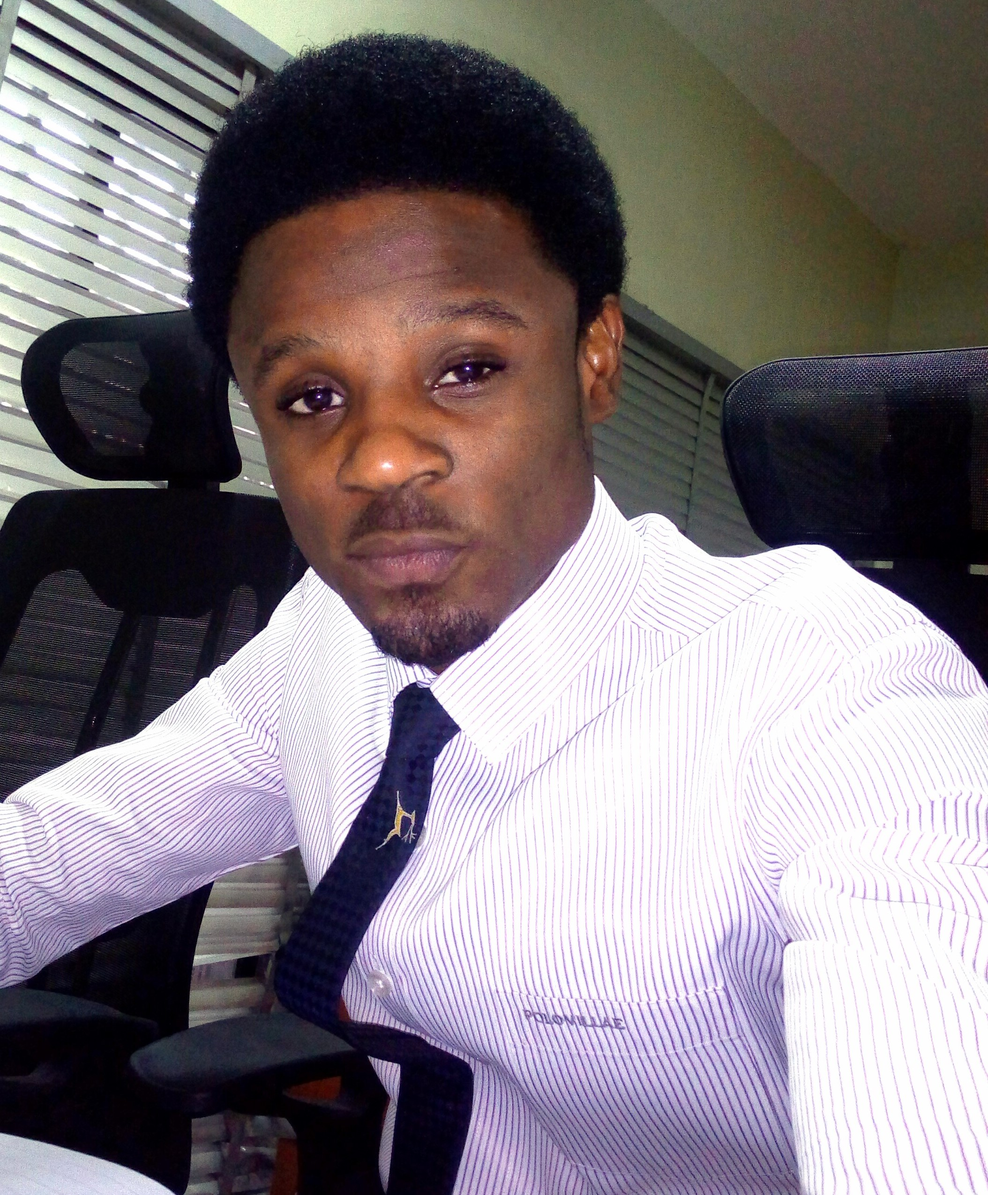
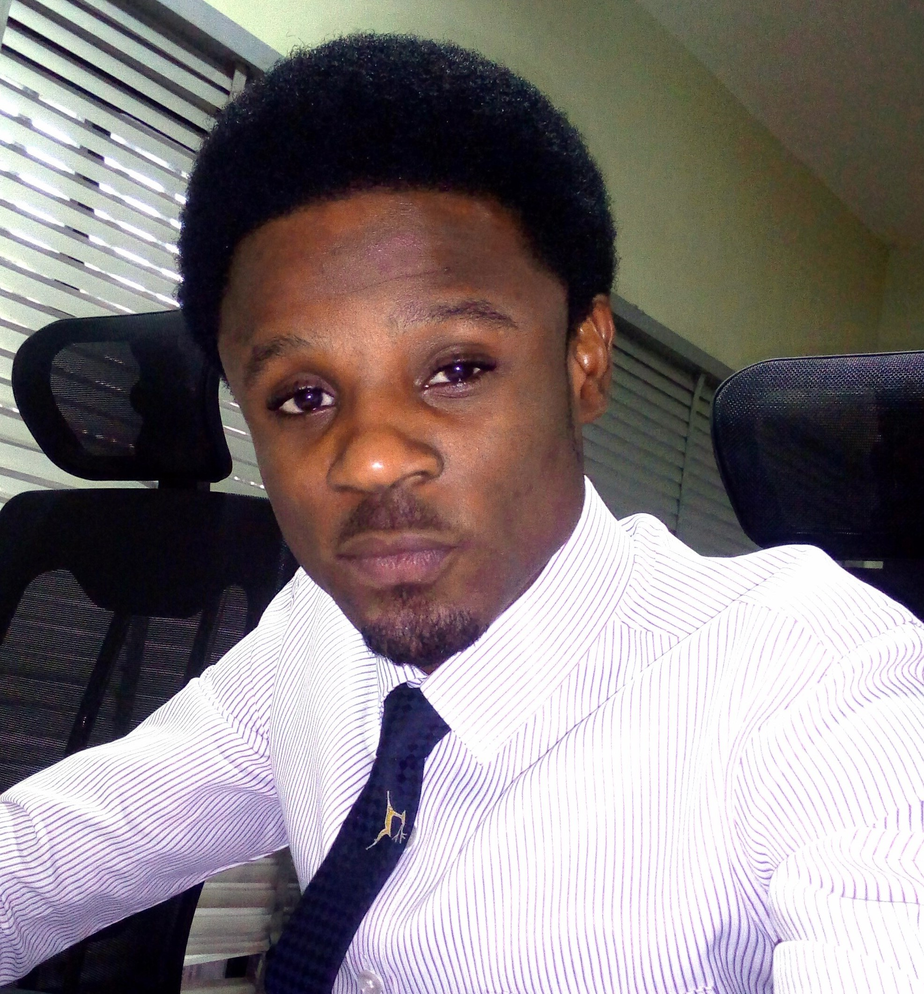
modify css file

diff --git a/style.css b/style.css
@@ -1,5 +1,5 @@
 :root {
-    --mainColor: rgb(41, 42, 43);
+    --mainColor: rgb(26, 27, 29);
     --effectColor: rgb(202, 128, 17);
     --mainWhite: #FEFFFF;
     --lightBackground: rgb(239, 239, 250);
@@ -56,7 +56,7 @@ body {
 .photo {
     border-radius: 1.5625rem;
     width: 12.5rem;
-    height: 15.625rem;
+    height: 14rem;
 }
 
 .my-motto{
@@ -66,7 +66,7 @@ body {
 
 .content {
     text-align: center;
-    padding-top: 6rem;
+    padding-top: 7rem;
 }
 
 .large-text {
